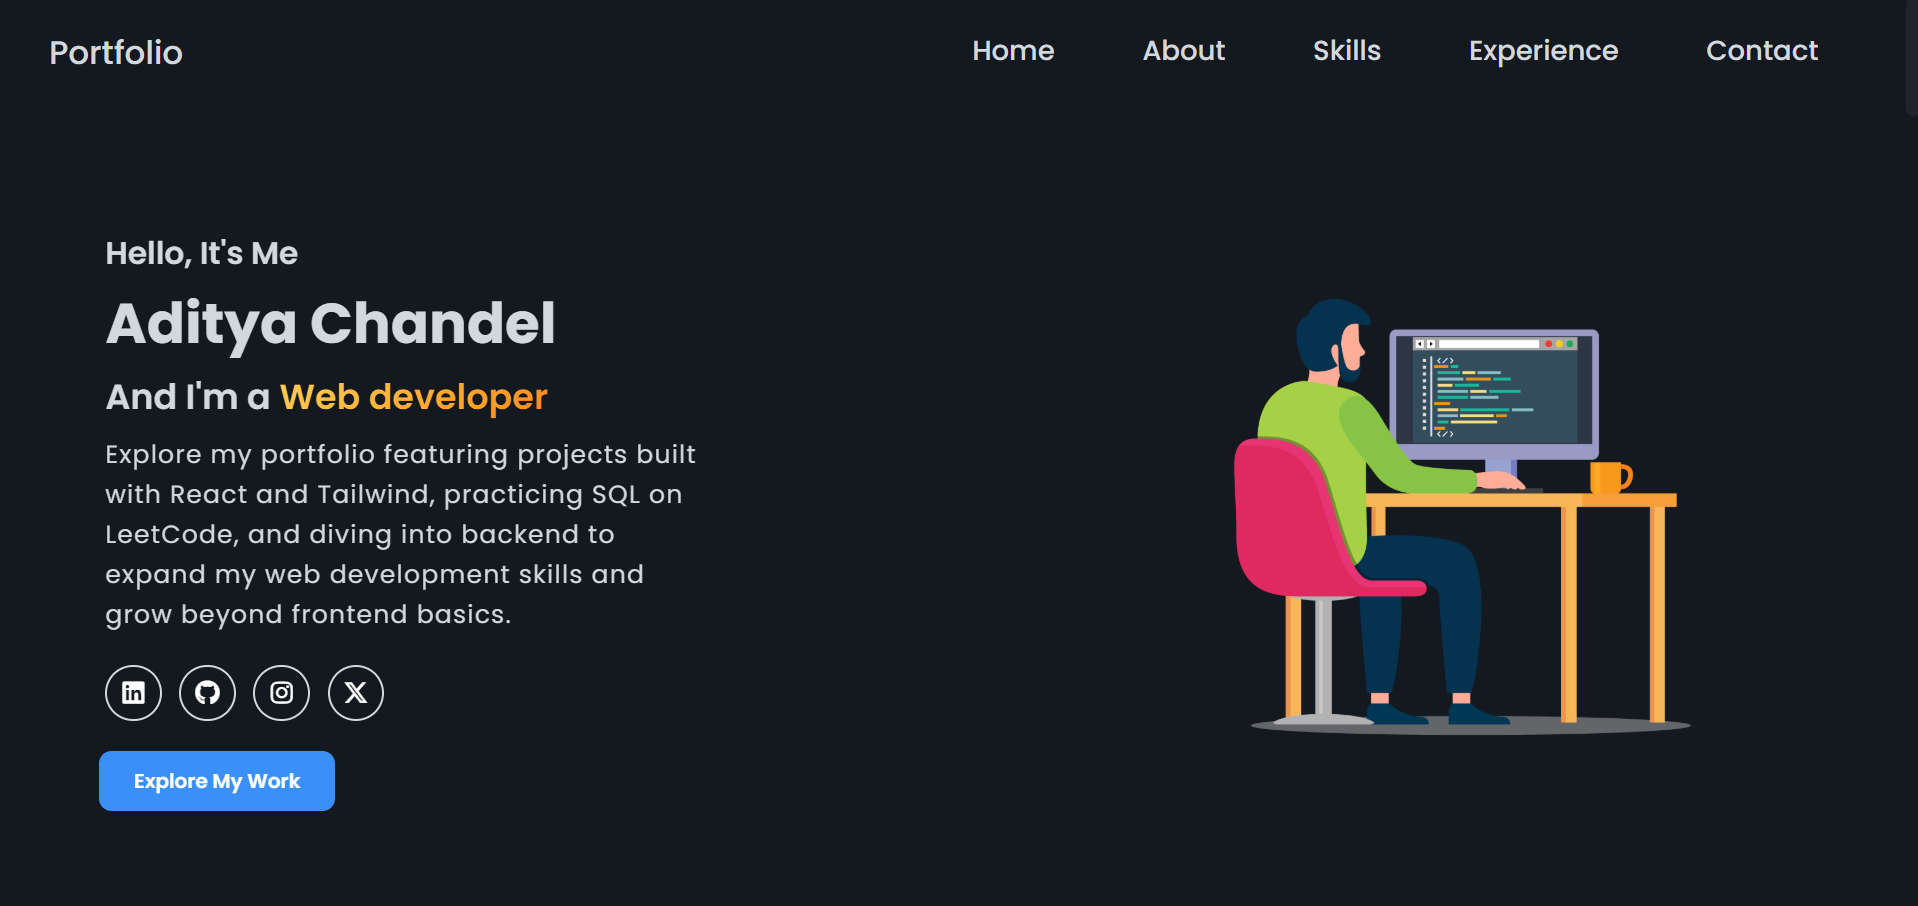
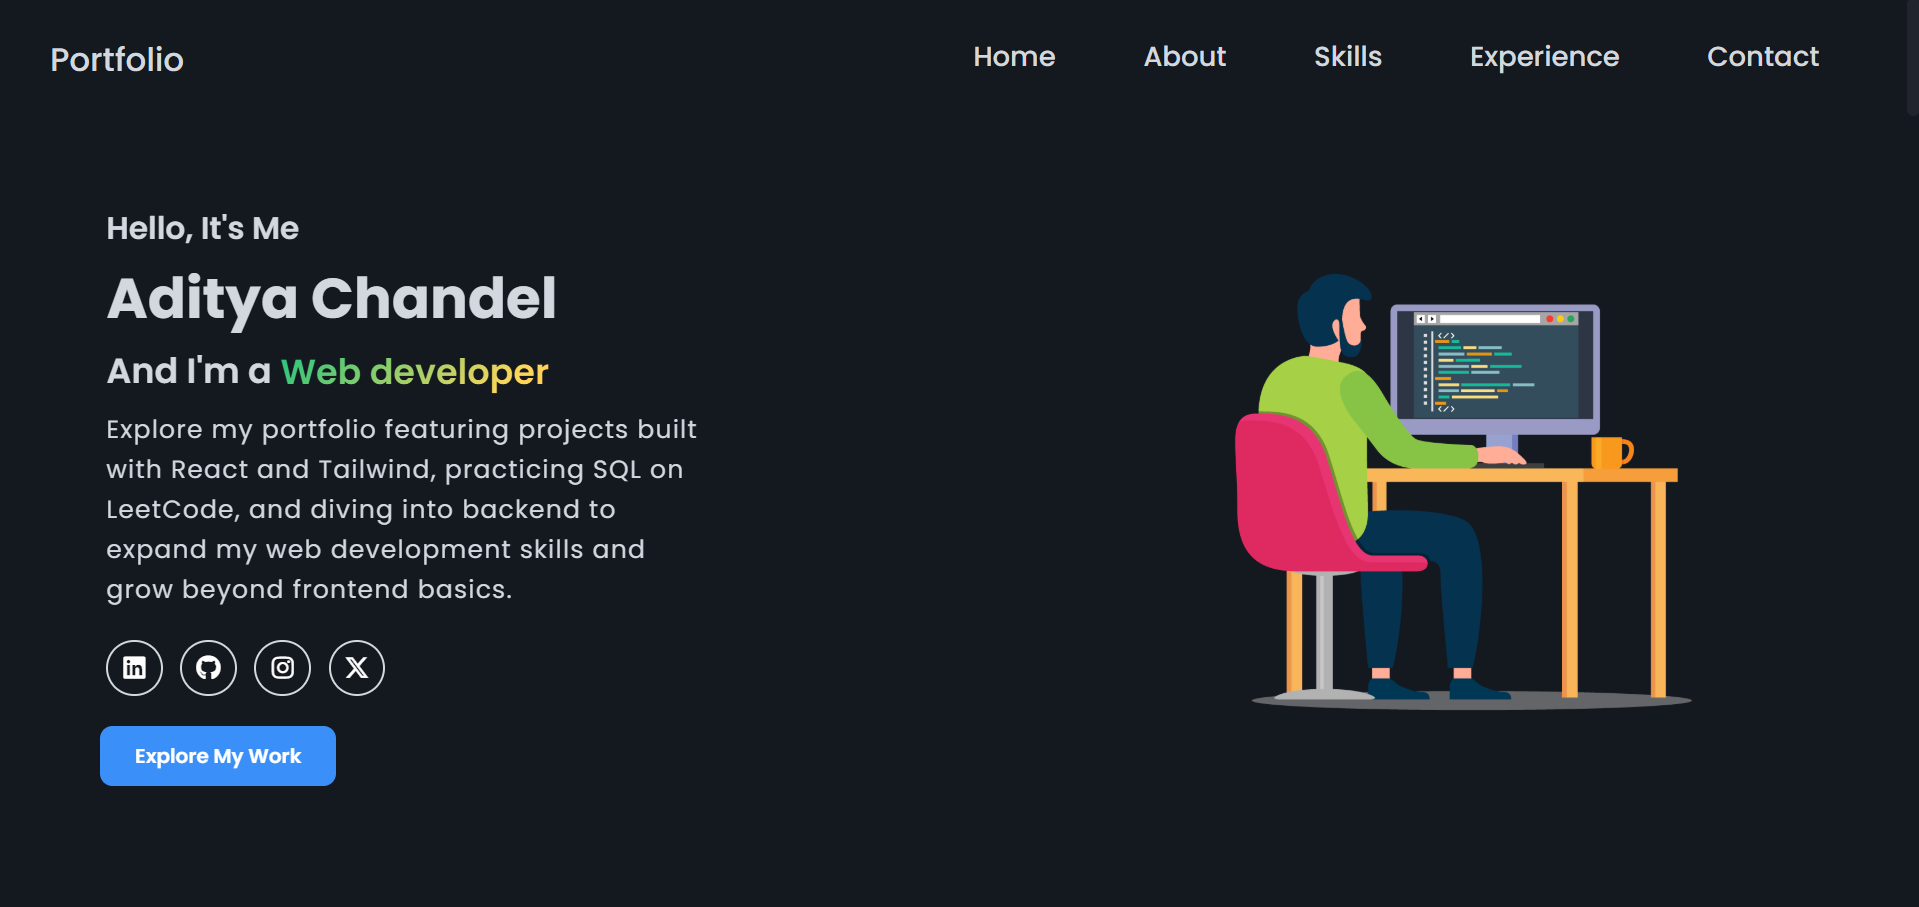
Fixed something

diff --git a/Portfolio.css b/Portfolio.css
@@ -60,7 +60,7 @@ header {
 header .navbar {
     width: 100%;
     display: flex;
-    padding: 25px 40px;
+    padding: 30px 40px;
     justify-content: space-between;
 }
 
@@ -155,7 +155,7 @@ header .navbar .menu {
 /* content */
 
 section .content {
-    padding: 20px;
+    padding: 0 20px;
     display: flex;
     justify-content: space-between;
     align-items: center;
@@ -823,6 +823,7 @@ footer .wrapper .icon {
 
     .text-content p {
         font-size: 19px;
+        width: 450px;
     }
 
     button {
@@ -1057,11 +1058,17 @@ footer .wrapper .icon {
     /* navbar */
 
     header .navbar {
-        padding: 20px 30px;
+        padding: 25px 30px;
     }
 
     .menu.active {
         top: 75px;
+    }
+
+    /* home section */
+
+    .text-content p {
+        width: 400px;
     }
 
     /* projects section */
@@ -1237,6 +1244,10 @@ footer .wrapper .icon {
 @media (max-width: 800px) {
 
     /* home section */
+
+    .text-content p {
+        width: 350px;
+    }
 
     .content-img-wrap img {
         width: 400px;
@@ -1650,7 +1661,7 @@ footer .wrapper .icon {
     }
 
     header .navbar {
-        padding: 20px 25px;
+        padding: 25px;
     }
 
     .main-content {
@@ -1755,6 +1766,10 @@ footer .wrapper .icon {
 
     /* menu */
 
+    header .navbar {
+        padding: 20px;
+    }
+
     .menu-btn,
     .menu-btn-2 {
         right: 15px;
@@ -1764,10 +1779,6 @@ footer .wrapper .icon {
 
     section .content {
         padding: 0;
-    }
-
-    header .navbar {
-        padding: 15px;
     }
 
     .menu.active {
